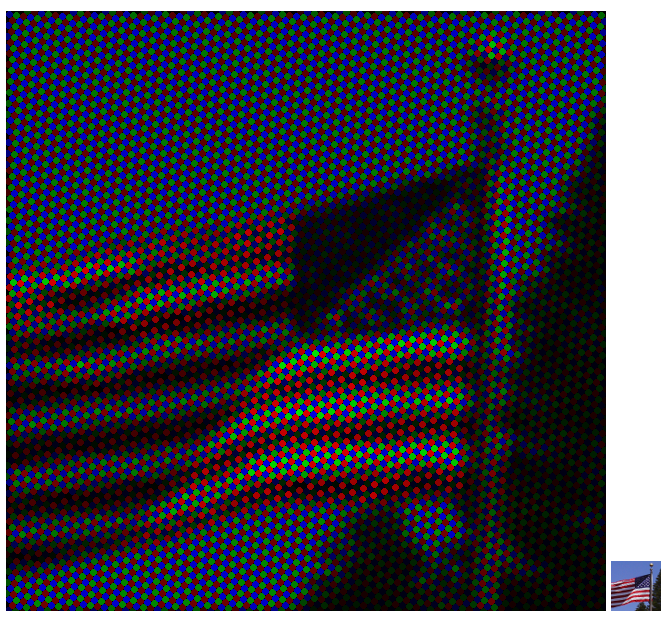
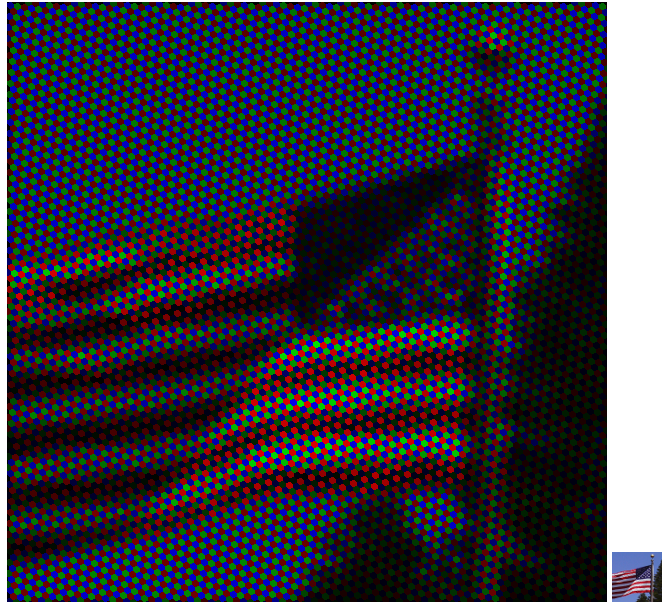
change shape of dots to eliminate black matrix

diff --git a/protopixels-jasmine.js b/protopixels-jasmine.js
@@ -52,7 +52,7 @@ DotDraw = (function() {
     this.dot_helper = new DotHelper;
     this.dsq_helper = new DotSquareHelper;
     this.splitter = new QuadrantSplitter;
-    this.shape = [1, 2, 3, 3, 3, 2, 1];
+    this.shape = [[-1, 1], [-3, 2], [-3, 3], [-3, 3], [-3, 3], [-2, 3], [-1, 1]];
   }
 
   DotDraw.prototype.build_dot = function(grid, img_data, a, b) {
@@ -67,8 +67,10 @@ DotDraw = (function() {
     value = 0;
     rgb = [0, 0, 0];
     for (k = l = 0; l <= 3; k = ++l) {
-      vk = img_data[200 * squares[k][1] + 4 * squares[k][0] + color] * quads[k];
-      value = value + vk;
+      if (squares[k] !== null) {
+        vk = img_data[200 * squares[k][1] + 4 * squares[k][0] + color] * quads[k];
+        value = value + vk;
+      }
     }
     rgb[color] = value;
     return this.draw_dot(grid, a, b, rgb);
@@ -104,7 +106,7 @@ DotDraw = (function() {
     cy = cxy[1];
     for (k = l = 0; l <= 6; k = ++l) {
       y = cy + k - 3;
-      for (x = m = ref = cx - this.shape[k], ref1 = cx + this.shape[k]; ref <= ref1 ? m <= ref1 : m >= ref1; x = ref <= ref1 ? ++m : --m) {
+      for (x = m = ref = cx + this.shape[k][0], ref1 = cx + this.shape[k][1]; ref <= ref1 ? m <= ref1 : m >= ref1; x = ref <= ref1 ? ++m : --m) {
         if (x >= 0 && x < 600 && y >= 0 && y < 600) {
           pxx.push([x, y]);
         }

diff --git a/specs/dot_draw_spec.js b/specs/dot_draw_spec.js
@@ -6,7 +6,7 @@ describe("Dot drawing functions", function() {
   return it("should find all the pixels for a dot a,b", function() {
     var dots;
     dots = this.draw.get_pixels(33, 22);
-    expect(dots.length).toEqual(37);
+    expect(dots.length).toEqual(39);
     expect(dots).toContain([112, 52]);
     expect(dots).toContain([109, 52]);
     expect(dots).toContain([114, 54]);
@@ -15,7 +15,9 @@ describe("Dot drawing functions", function() {
     expect(dots).toContain([111, 49]);
     expect(dots).toContain([112, 49]);
     expect(dots).toContain([113, 55]);
-    expect(dots).not.toContain([109, 50]);
+    expect(dots).toContain([109, 50]);
+    expect(dots).toContain([115, 54]);
+    expect(dots).not.toContain([110, 49]);
     expect(dots).not.toContain([115, 55]);
     expect(dots).not.toContain([388, 502]);
     return expect(dots).not.toContain([400, 200]);

diff --git a/protopixels.js b/protopixels.js
@@ -65,7 +65,7 @@ DotDraw = (function() {
     this.dot_helper = new DotHelper;
     this.dsq_helper = new DotSquareHelper;
     this.splitter = new QuadrantSplitter;
-    this.shape = [1, 2, 3, 3, 3, 2, 1];
+    this.shape = [[-1, 1], [-3, 2], [-3, 3], [-3, 3], [-3, 3], [-2, 3], [-1, 1]];
   }
 
   DotDraw.prototype.build_dot = function(grid, img_data, a, b) {
@@ -119,7 +119,7 @@ DotDraw = (function() {
     cy = cxy[1];
     for (k = l = 0; l <= 6; k = ++l) {
       y = cy + k - 3;
-      for (x = m = ref = cx - this.shape[k], ref1 = cx + this.shape[k]; ref <= ref1 ? m <= ref1 : m >= ref1; x = ref <= ref1 ? ++m : --m) {
+      for (x = m = ref = cx + this.shape[k][0], ref1 = cx + this.shape[k][1]; ref <= ref1 ? m <= ref1 : m >= ref1; x = ref <= ref1 ? ++m : --m) {
         if (x >= 0 && x < 600 && y >= 0 && y < 600) {
           pxx.push([x, y]);
         }

diff --git a/index.html b/index.html
@@ -11,7 +11,7 @@
 
 <h4>Protopixels - TV</h4>
 
-<canvas id="big" width="600" height="600" style="background-color:#333333"></canvas>
+<canvas id="big" width="600" height="600" style="background-color:#000000"></canvas>
 <img id="orig" width="50" height="50" src="orig.png"></img>
 
 </body>
